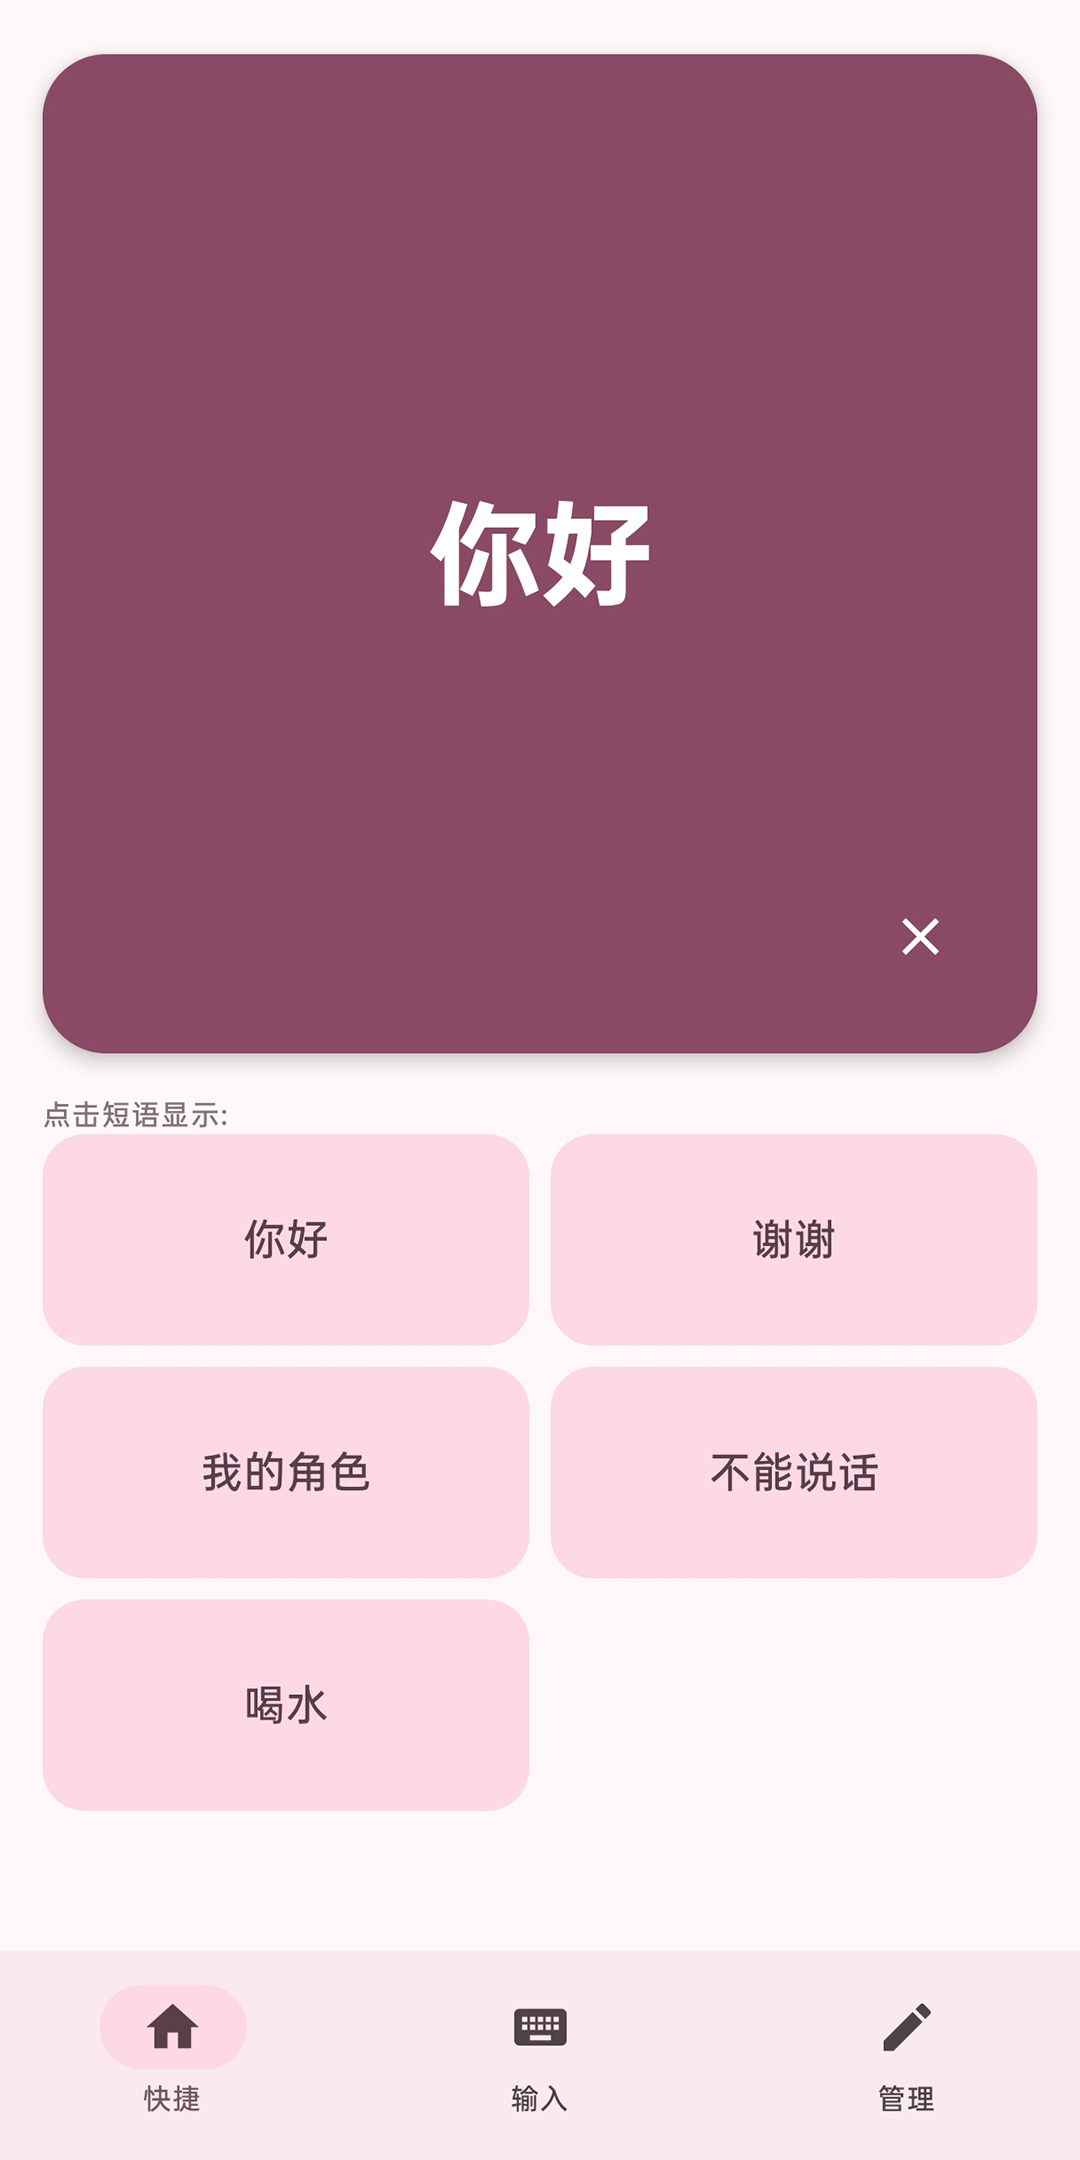
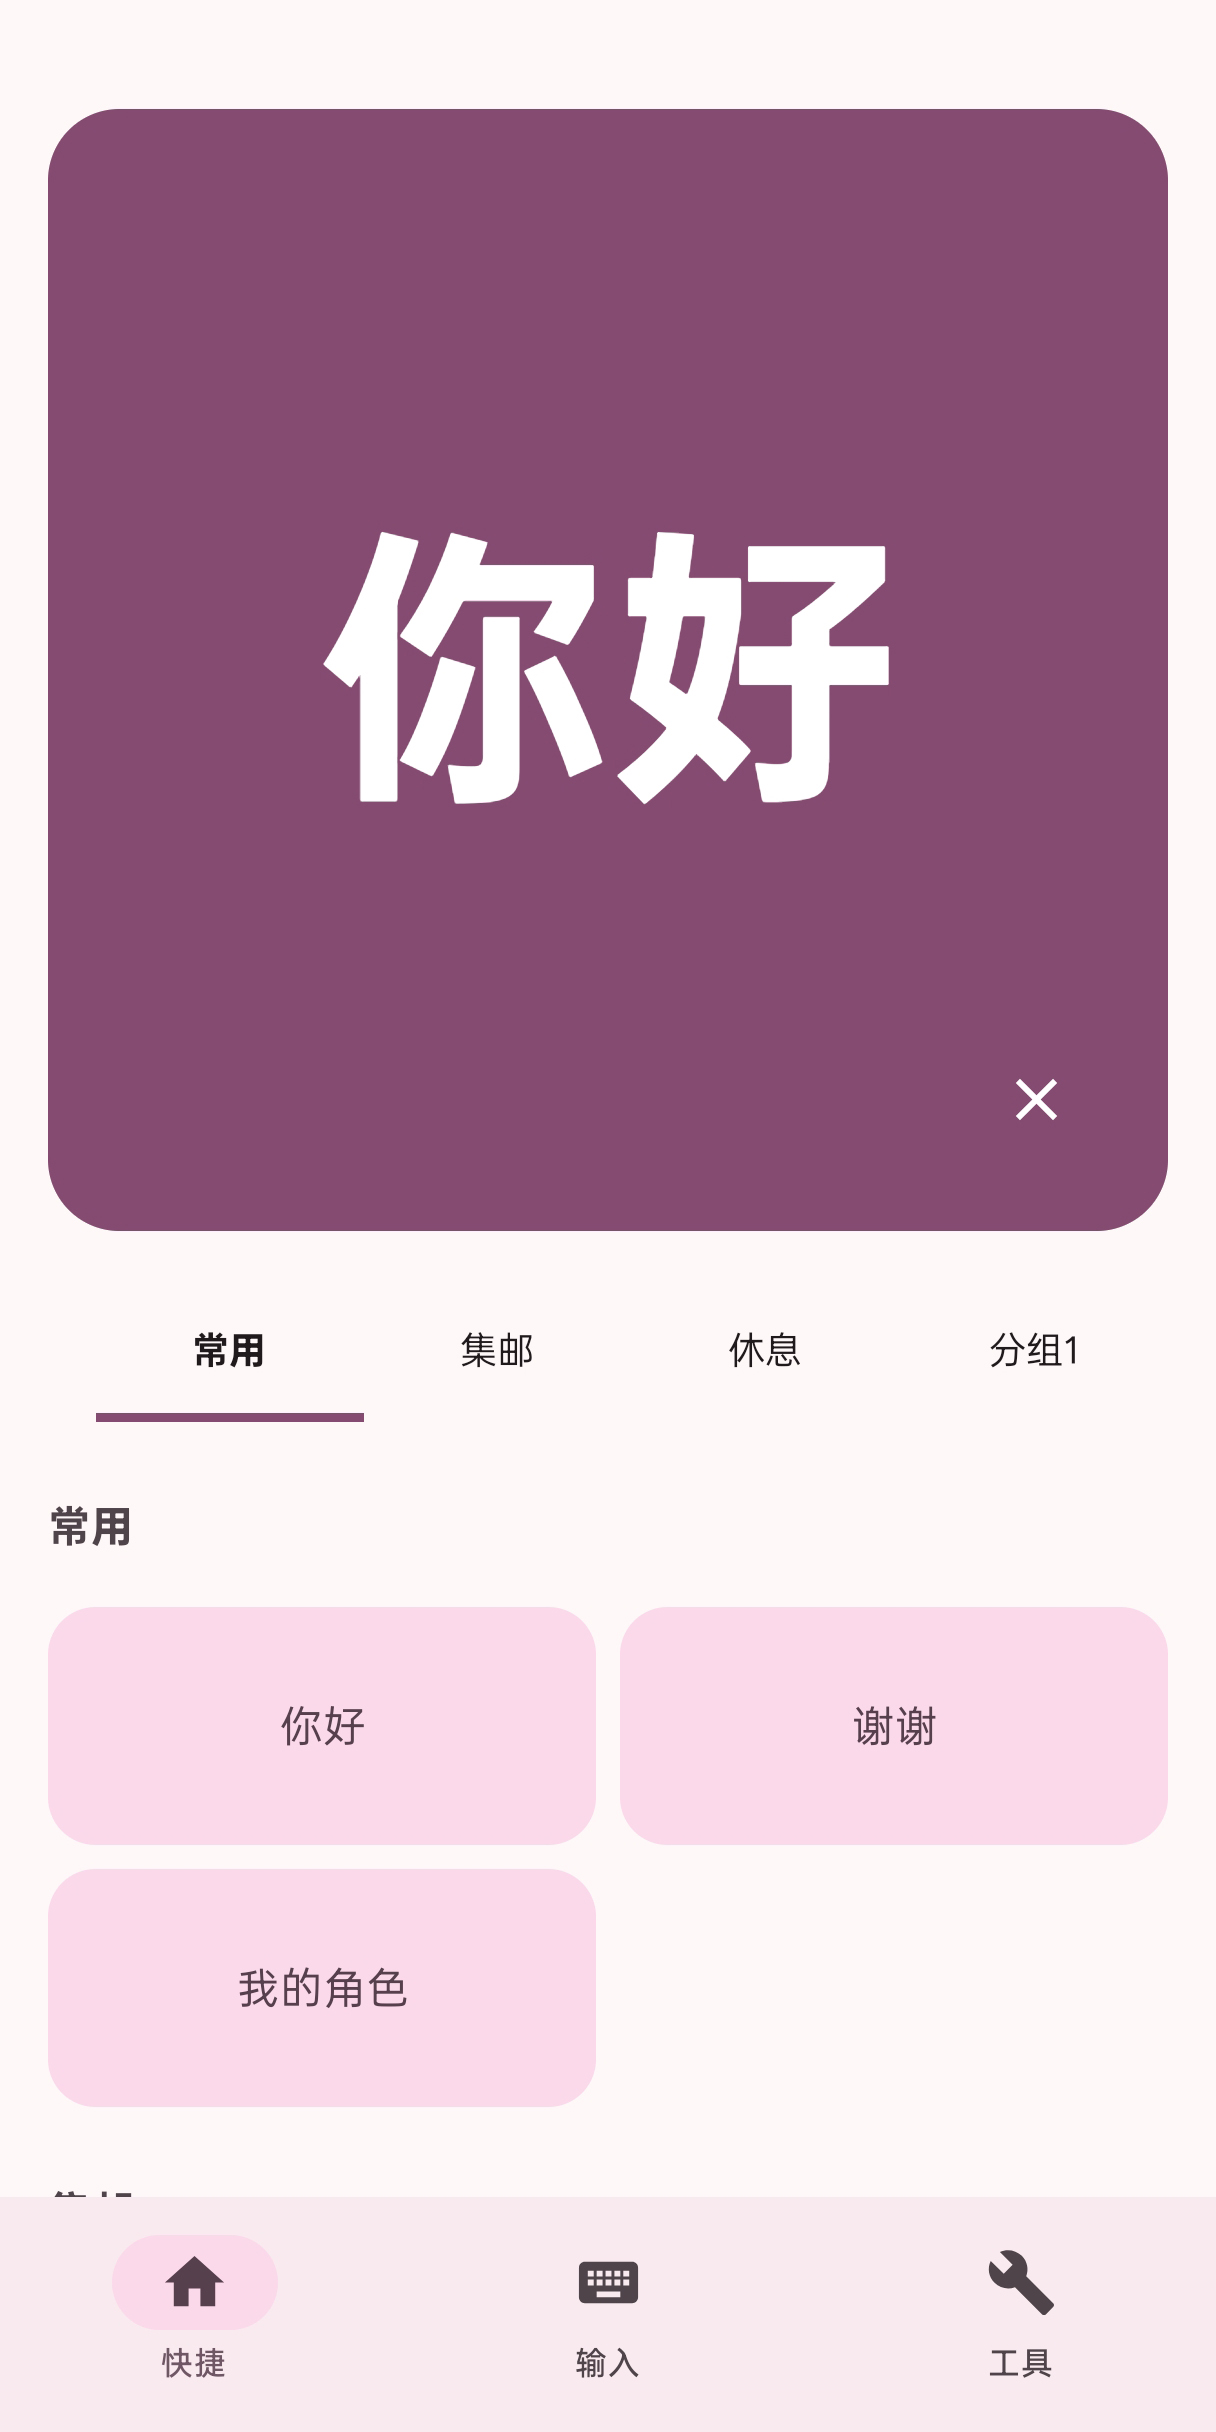
[UPDATE] bump version to 1.1.2

diff --git a/docs/index.html b/docs/index.html
@@ -4,6 +4,7 @@
     <meta charset="UTF-8">
     <meta name="viewport" content="width=device-width, initial-scale=1.0">
     <title>KigHelper | 娃娃的神之嘴 - 专为 Kiger 设计的辅助沟通工具</title>
+    <link rel="icon" type="image/png" href="favicon.png">
     <script src="https://cdn.tailwindcss.com"></script>
     <link rel="stylesheet"
           href="https://cdnjs.cloudflare.com/ajax/libs/font-awesome/6.4.0/css/all.min.css">
@@ -19,13 +20,12 @@
     </style>
 </head>
 <body class="text-gray-800">
-
 <!-- Header / Hero Section -->
 <header class="hero-gradient text-white py-16 px-6 text-center">
     <div class="max-w-4xl mx-auto">
         <h1 class="text-5xl font-extrabold mb-4 tracking-tight text-white drop-shadow-sm">
-            KigHelper</h1>
-        <p class="text-2xl mb-6 opacity-95 font-light">娃娃的神之嘴</p>
+            KigHelper | 娃娃的神之嘴</h1>
+        <p class="text-2xl mb-6 opacity-95 font-light">送给 Kiger 的辅助沟通工具</p>
 
         <!-- Badges -->
         <div class="flex justify-center gap-3 mb-10 flex-wrap">
@@ -37,17 +37,17 @@
 
         <!-- Download Buttons -->
         <div class="flex flex-col sm:flex-row justify-center gap-4 mb-12">
-            <a href="https://github.com/Tairan4356/KigHelper/releases/download/v1.1.1/KigHelper-v1.1.1.apk"
+            <a href="https://github.com/Tairan4356/KigHelper/releases/download/v1.1.2/KigHelper-v1.1.2.apk"
                class="bg-white text-pink-500 px-8 py-4 rounded-2xl font-bold hover:scale-105 transition-transform shadow-xl flex items-center justify-center">
                 <i class="fas fa-download mr-3"></i>立即下载 (GitHub)
             </a>
-            <a href="https://gitee.com/tairan_4356/kig-helper/releases/download/v1.1.1/KigHelper-v1.1.1.apk"
+            <a href="https://gitee.com/tairan_4356/kig-helper/releases/download/v1.1.2/KigHelper-v1.1.2.apk"
                class="bg-pink-900/20 backdrop-blur text-white border border-white/30 px-8 py-4 rounded-2xl font-bold hover:bg-pink-900/30 transition flex items-center justify-center">
                 <i class="fas fa-rocket mr-3"></i>国内镜像 (Gitee)
             </a>
         </div>
 
-        <div class="flex justify-center gap-6">
+        <div class="flex justify-center gap-6 flex-wrap">
             <a href="https://github.com/Tairan4356/KigHelper"
                class="text-white/80 hover:text-white transition flex items-center">
                 <i class="fab fa-github mr-2 text-xl"></i> GitHub 仓库
@@ -55,6 +55,10 @@
             <a href="https://space.bilibili.com/353197379" target="_blank"
                class="text-white/80 hover:text-white transition flex items-center">
                 <i class="fab fa-bilibili mr-2 text-xl"></i> 作者 B 站
+            </a>
+            <a href="https://qm.qq.com/cgi-bin/qm/qr?k=1103795582" target="_blank"
+               class="text-white/80 hover:text-white transition flex items-center">
+                <i class="fab fa-qq mr-2 text-xl"></i> 内测反馈群 (1103795582)
             </a>
         </div>
     </div>
@@ -77,15 +81,15 @@
         <div class="flex flex-col md:flex-row items-center gap-12">
             <div class="flex-1">
                 <h2 class="text-3xl font-bold mb-6 text-pink-600 border-l-4 border-pink-400 pl-4">
-                    🌟 锁屏显示：最懂你的痛点</h2>
+                    🌟 锁屏显示：点亮屏幕直接使用</h2>
                 <p class="text-gray-600 leading-relaxed mb-6">
                     在变娃状态下，指纹识别和面部解锁几乎完全失效。在嘈杂的漫展或外景现场，频繁输入密码解锁手机极其痛苦。
                 </p>
                 <div class="bg-pink-50 p-6 rounded-2xl border border-pink-100">
                     <p class="font-bold text-pink-900 mb-2 italic text-lg">
-                        “无需解锁手机，点亮屏幕即可直接使用。”</p>
-                    <p class="text-sm text-pink-700">深度适配 <b>ShowWhenLocked</b>
-                        窗口管理，点击即呼应，真正做到“即开即说”。</p>
+                        “无需解锁，最懂你的痛点”</p>
+                    <p class="text-sm text-pink-700">
+                        请授予软件在锁屏时显示的权限，部分厂商可能需要悬浮窗或应用上层权限</p>
                 </div>
             </div>
             <div class="flex-1 flex justify-center gap-6">
@@ -100,6 +104,52 @@
     </div>
 </section>
 
+<!-- Core Highlight: Voice Model Import (Sherpa-Onnx) -->
+<section class="py-16 px-6 bg-pink-50/10 border-t border-b border-pink-100/50">
+    <div class="max-w-5xl mx-auto">
+        <div class="flex flex-col md:flex-row-reverse items-center gap-12">
+            <div class="flex-1">
+                <h2 class="text-3xl font-bold mb-6 text-pink-600 border-l-4 border-pink-400 pl-4">
+                    🎙️ 离线语音：变娃也能开口说话</h2>
+                <p class="text-gray-600 leading-relaxed mb-6">
+                    无需联网，不依赖第三方云端，完全离线运行保护隐私。集成 <b>Sherpa-Onnx</b>
+                    引擎，支持在本地导入离线语音模型，赋予你的角色独特的发音质感。
+                </p>
+                <div class="space-y-4">
+                    <div class="bg-white p-5 rounded-2xl border border-pink-100 shadow-sm flex items-start gap-4">
+                        <div class="bg-pink-100 text-pink-500 rounded-lg p-2 mt-1">
+                            <i class="fas fa-sliders-h"></i>
+                        </div>
+                        <div>
+                            <h4 class="font-bold text-gray-800 mb-1">多维度声线微调</h4>
+                            <p class="text-sm text-gray-500 leading-relaxed">
+                                提供针对语调、语速、起伏度等多参数的细致调节，支持各种语流波动细节，还原理想的人设声音表现。</p>
+                        </div>
+                    </div>
+                    <div class="bg-white p-5 rounded-2xl border border-pink-100 shadow-sm flex items-start gap-4">
+                        <div class="bg-pink-100 text-pink-500 rounded-lg p-2 mt-1">
+                            <i class="fas fa-file-import"></i>
+                        </div>
+                        <div>
+                            <h4 class="font-bold text-gray-800 mb-1">自由导入专属模型</h4>
+                            <p class="text-sm text-gray-500 leading-relaxed">兼容主流的 VITS
+                                模型。用户可自行放置 Onnx
+                                文件与配置文件，无需复杂编码，即可在应用中轻松加载私人定制的特制声线。</p>
+                        </div>
+                    </div>
+                </div>
+            </div>
+            <div class="flex-1 flex justify-center">
+                <div class="screenshot-container">
+                    <img src="screenshots/voice.jpg" alt="语音设置与微调界面"
+                         class="screenshot-img"
+                         onerror="this.src='https://placehold.co/240x480?text=Voice+Settings+Screenshot'">
+                </div>
+            </div>
+        </div>
+    </div>
+</section>
+
 <!-- Features Grid -->
 <section class="py-16 px-6 bg-pink-50/30">
     <div class="max-w-5xl mx-auto text-center mb-12">
@@ -108,19 +158,21 @@
     <div class="max-w-5xl mx-auto grid grid-cols-1 md:grid-cols-3 gap-8 text-center md:text-left">
         <div class="feature-card bg-white p-8 rounded-3xl shadow-sm border border-pink-100">
             <div class="bg-pink-100 w-12 h-12 rounded-xl flex items-center justify-center text-pink-500 text-xl mb-6 mx-auto md:mx-0">
-                <i class="fas fa-comment-dots"></i>
+                <i class="fas fa-bell"></i>
             </div>
-            <h3 class="text-xl font-bold mb-3">一键呼应</h3>
-            <p class="text-gray-500 text-sm leading-relaxed">预设卡片一键触发巨型文字 +
-                语音朗读，在喧闹中也能清晰传达意图。</p>
+            <h3 class="text-xl font-bold mb-3">实况通知与状态栏上岛</h3>
+            <p class="text-gray-500 text-sm leading-relaxed">
+                常驻后台时自动转换为静默实况通知，兼容各品牌系统的灵动岛、状态栏胶囊等设计，实现“秒回”应用。
+            </p>
         </div>
         <div class="feature-card bg-white p-8 rounded-3xl shadow-sm border border-pink-100">
             <div class="bg-rose-100 w-12 h-12 rounded-xl flex items-center justify-center text-rose-500 text-xl mb-6 mx-auto md:mx-0">
-                <i class="fas fa-bell"></i>
+                <i class="fas fa-comment-dots"></i>
             </div>
-            <h3 class="text-xl font-bold mb-3">常驻通知</h3>
+            <h3 class="text-xl font-bold mb-3">短语分组</h3>
             <p class="text-gray-500 text-sm leading-relaxed">
-                后台运行时自动开启静默通知，通过下拉通知栏实现“秒回”应用。</p>
+                支持用户自定义短语分组，快速切换不同场景的常用语库，满足漫展、外景、日常等多样化沟通需求。
+            </p>
         </div>
         <div class="feature-card bg-white p-8 rounded-3xl shadow-sm border border-pink-100">
             <div class="bg-fuchsia-100 w-12 h-12 rounded-xl flex items-center justify-center text-fuchsia-500 text-xl mb-6 mx-auto md:mx-0">
@@ -129,6 +181,39 @@
             <h3 class="text-xl font-bold mb-3">动态配色</h3>
             <p class="text-gray-500 text-sm leading-relaxed">基于 Material 3 开发，支持 Android 12+
                 动态壁纸取色，美观且现代化。</p>
+        </div>
+    </div>
+</section>
+
+<!-- Community Section -->
+<section class="py-16 px-6 bg-white">
+    <div class="max-w-4xl mx-auto text-center">
+        <h2 class="text-3xl font-bold mb-6 text-pink-600">
+            <i class="fas fa-users mr-3"></i>同好交流群
+        </h2>
+        <p class="text-gray-600 max-w-2xl mx-auto mb-10 text-sm md:text-base">
+            欢迎加入官方群组，这里可供 Kiger 同好交流使用体验、反馈新需求，或者分享和讨论你调制的专属角色离线语音声线。
+        </p>
+        <div class="flex flex-col md:flex-row items-center justify-center gap-10 bg-pink-50/50 p-8 rounded-3xl border border-pink-100 max-w-2xl mx-auto">
+            <div class="w-44 h-44 bg-white p-3 rounded-2xl shadow-sm border border-pink-100 flex flex-col justify-between items-center">
+                <img src="qrcode.jpg" alt="QQ群二维码"
+                     class="w-36 h-36 object-cover rounded-lg"
+                     onerror="this.src='https://placehold.co/150x150?text=QQ+Group+QR'">
+                <span class="text-[10px] text-gray-400 mt-1">手机 QQ 扫码加群</span>
+            </div>
+            <div class="text-left flex-1 space-y-4 w-full">
+                <div>
+                    <h4 class="font-bold text-gray-800 text-lg">KigHelper 内测反馈群</h4>
+                    <p class="text-sm text-gray-500 mt-1">
+                        群号：<span
+                            class="font-mono bg-pink-100 text-pink-600 px-2 py-0.5 rounded font-bold text-sm">1103795582</span>
+                    </p>
+                </div>
+                <a href="https://qm.qq.com/q/qqN05HHWDK" target="_blank"
+                   class="inline-flex items-center justify-center bg-pink-500 hover:bg-pink-600 text-white font-bold px-6 py-3 rounded-xl shadow-md transition-all text-sm w-full sm:w-auto">
+                    <i class="fab fa-qq mr-2"></i>一键唤醒 QQ 加群
+                </a>
+            </div>
         </div>
     </div>
 </section>
@@ -150,12 +235,70 @@
             </div>
             <div class="flex items-center gap-4 bg-white/5 p-5 rounded-2xl border border-white/10">
                 <i class="far fa-circle text-pink-500"></i>
-                <span>短语分组与分类管理</span>
+                <span>自定义偏好设置</span>
             </div>
             <div class="flex items-center gap-4 bg-white/5 p-5 rounded-2xl border border-white/10">
                 <i class="far fa-circle text-pink-500"></i>
-                <span>自定义偏好设置</span>
+                <span>多语言支持</span>
             </div>
+        </div>
+    </div>
+</section>
+
+<!-- Contributors Section -->
+<section class="py-16 px-6 bg-pink-50/20 border-t border-pink-100/30">
+    <div class="max-w-4xl mx-auto text-center">
+        <h2 class="text-3xl font-bold mb-6 text-pink-600">
+            <i class="fas fa-handshake mr-3"></i>特别鸣谢与贡献者
+        </h2>
+        <p class="text-gray-600 max-w-2xl mx-auto mb-10 text-sm">
+            感谢以下伙伴通过代码提交、问题反馈或意见建议等方式对 KigHelper 提供的无私帮助（排名不分先后）
+        </p>
+        <div class="grid grid-cols-2 sm:grid-cols-3 md:grid-cols-4 lg:grid-cols-5 gap-4 max-w-4xl mx-auto justify-center">
+            <a href="https://github.com/Tairan4356" target="_blank"
+               class="bg-white p-4 rounded-2xl shadow-sm border border-pink-100 flex flex-col items-center hover:scale-105 hover:border-pink-300 hover:shadow-md transition-all group">
+                <img src="https://github.com/Tairan4356.png" alt="Tairan4356"
+                     class="w-14 h-14 rounded-full border-2 border-pink-100 mb-2 object-cover"
+                     onerror="this.src='https://placehold.co/100x100?text=Kig'">
+                <h4 class="font-bold text-gray-700 text-xs group-hover:text-pink-500 transition-colors">
+                    Tairan4356</h4>
+            </a>
+
+            <a href="https://github.com/yulexun" target="_blank"
+               class="bg-white p-4 rounded-2xl shadow-sm border border-pink-100 flex flex-col items-center hover:scale-105 hover:border-pink-300 hover:shadow-md transition-all group">
+                <img src="https://github.com/yulexun.png" alt="yulexun"
+                     class="w-14 h-14 rounded-full border-2 border-pink-100 mb-2 object-cover"
+                     onerror="this.src='https://placehold.co/100x100?text=User'">
+                <h4 class="font-bold text-gray-700 text-xs group-hover:text-pink-500 transition-colors">
+                    yulexun</h4>
+            </a>
+
+            <a href="https://github.com/iMallpa" target="_blank"
+               class="bg-white p-4 rounded-2xl shadow-sm border border-pink-100 flex flex-col items-center hover:scale-105 hover:border-pink-300 hover:shadow-md transition-all group">
+                <img src="https://github.com/iMallpa.png" alt="iMallpa"
+                     class="w-14 h-14 rounded-full border-2 border-pink-100 mb-2 object-cover"
+                     onerror="this.src='https://placehold.co/100x100?text=User'">
+                <h4 class="font-bold text-gray-700 text-xs group-hover:text-pink-500 transition-colors">
+                    iMallpa</h4>
+            </a>
+
+            <a href="https://github.com/LHT02" target="_blank"
+               class="bg-white p-4 rounded-2xl shadow-sm border border-pink-100 flex flex-col items-center hover:scale-105 hover:border-pink-300 hover:shadow-md transition-all group">
+                <img src="https://github.com/LHT02.png" alt="LHT02"
+                     class="w-14 h-14 rounded-full border-2 border-pink-100 mb-2 object-cover"
+                     onerror="this.src='https://placehold.co/100x100?text=User'">
+                <h4 class="font-bold text-gray-700 text-xs group-hover:text-pink-500 transition-colors">
+                    LHT02</h4>
+            </a>
+
+            <a href="https://github.com/1MLightyears" target="_blank"
+               class="bg-white p-4 rounded-2xl shadow-sm border border-pink-100 flex flex-col items-center hover:scale-105 hover:border-pink-300 hover:shadow-md transition-all group">
+                <img src="https://github.com/1MLightyears.png" alt="1MLightyears"
+                     class="w-14 h-14 rounded-full border-2 border-pink-100 mb-2 object-cover"
+                     onerror="this.src='https://placehold.co/100x100?text=User'">
+                <h4 class="font-bold text-gray-700 text-xs group-hover:text-pink-500 transition-colors">
+                    1MLightyears</h4>
+            </a>
         </div>
     </div>
 </section>